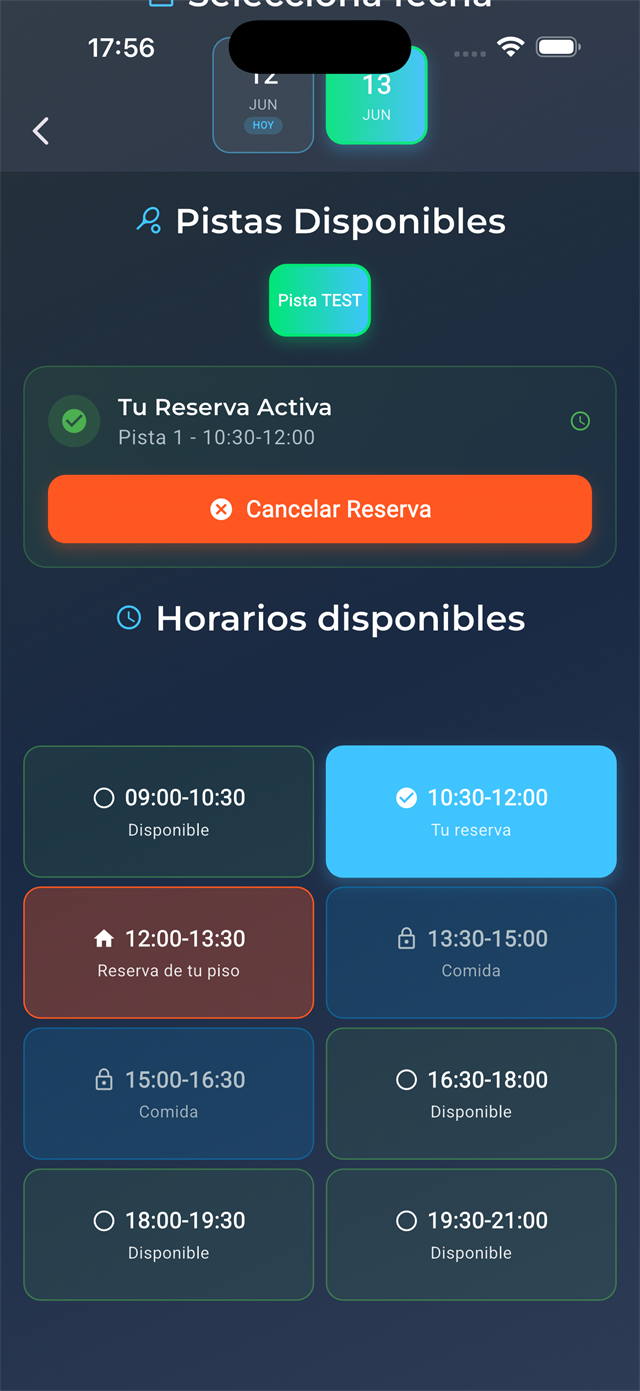
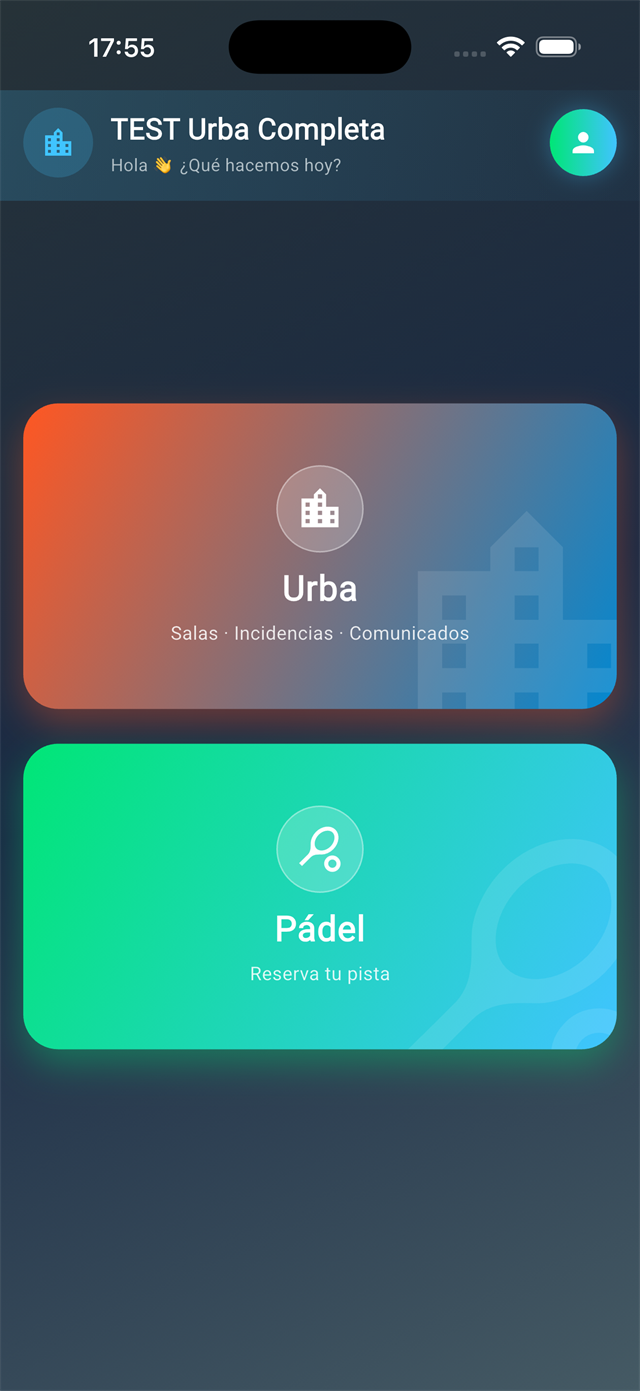
feat: hero con pantalla de reserva (calendario) + hub a galeria + verificacion Google Search Console

diff --git a/index.html b/index.html
@@ -3,6 +3,7 @@
 <head>
 <meta charset="utf-8">
 <meta name="viewport" content="width=device-width, initial-scale=1">
+<meta name="google-site-verification" content="1ph8sTCiXENXcysreGbmtEdmVHRWkmrjFT2EYKwSsSU">
 <title>UrbaPadel | Reserva la pista de pádel de tu urbanización</title>
 <meta name="description" content="UrbaPadel es la app para reservar la pista de pádel y las salas de tu urbanización, reportar incidencias y recibir los comunicados de la administración. Gratis para vecinos. iPhone y Android.">
 <meta name="keywords" content="reservar pista pádel urbanización, app comunidad de vecinos, reservas pádel, salas comunes, incidencias comunidad, comunicados administración, UrbaPadel">
@@ -212,7 +213,7 @@
       </div>
     </div>
     <div class="phone">
-      <img src="img/hero.png" alt="App UrbaPadel mostrando el inicio con accesos a Urba y Pádel" fetchpriority="high" decoding="async"
+      <img src="img/hero.png" alt="App UrbaPadel reservando una pista de pádel desde el calendario" fetchpriority="high" decoding="async"
            onerror="this.style.display='none';this.nextElementSibling.style.display='flex';">
       <div class="ph-fallback" style="display:none;">Captura del móvil<br>(img/hero.png)</div>
     </div>
@@ -275,7 +276,7 @@
   <div class="wrap">
     <h2>Así se ve UrbaPadel</h2>
     <div class="strip">
-      <div class="gphone"><img src="img/screen-1.png" alt="UrbaPadel: horarios disponibles y reserva activa" loading="lazy" decoding="async" onerror="this.parentElement.style.display='none';"></div>
+      <div class="gphone"><img src="img/screen-1.png" alt="UrbaPadel: inicio con accesos a Urba y Pádel" loading="lazy" decoding="async" onerror="this.parentElement.style.display='none';"></div>
       <div class="gphone"><img src="img/screen-2.png" alt="UrbaPadel: reserva de salas de juntas" loading="lazy" decoding="async" onerror="this.parentElement.style.display='none';"></div>
       <div class="gphone"><img src="img/screen-3.png" alt="UrbaPadel: incidencias de la comunidad" loading="lazy" decoding="async" onerror="this.parentElement.style.display='none';"></div>
       <div class="gphone"><img src="img/screen-4.png" alt="UrbaPadel: comunicados de la administración" loading="lazy" decoding="async" onerror="this.parentElement.style.display='none';"></div>
